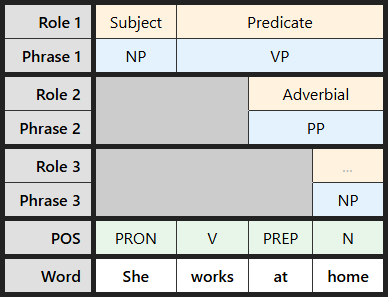
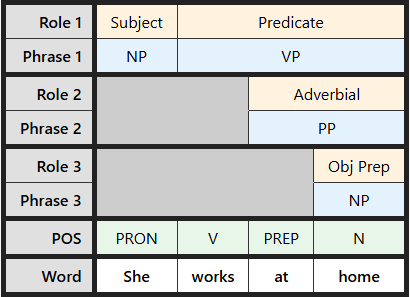
Fix diagram examples 12.10: add missing roles for tables 010, 011, 015
- ch12_table_010: move Subject/Predicate to level 1 (inner S clause)
- ch12_table_011: add Obj Prep for NP "home"
- ch12_table_015: add Obj Prep for NP "the library"

diff --git a/docs/index.html b/docs/index.html
@@ -2,7 +2,7 @@
 <html>
 <!--********************************************-->
 <!--*       Generated from PreTeXt source      *-->
-<!--*       on 2026-04-15T14:46:15-06:00       *-->
+<!--*       on 2026-04-15T14:53:40-06:00       *-->
 <!--*   A recent stable commit (2022-07-01):   *-->
 <!--* 6c761d3dba23af92cba35001c852aac04ae99a5f *-->
 <!--*                                          *-->
